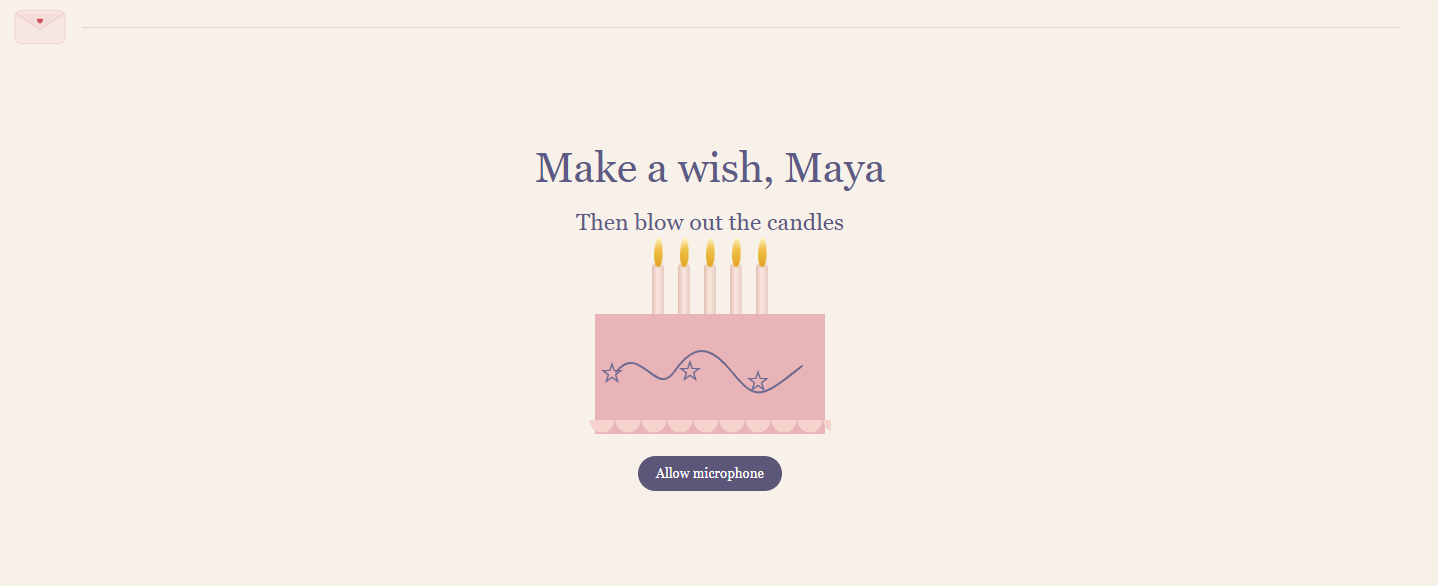
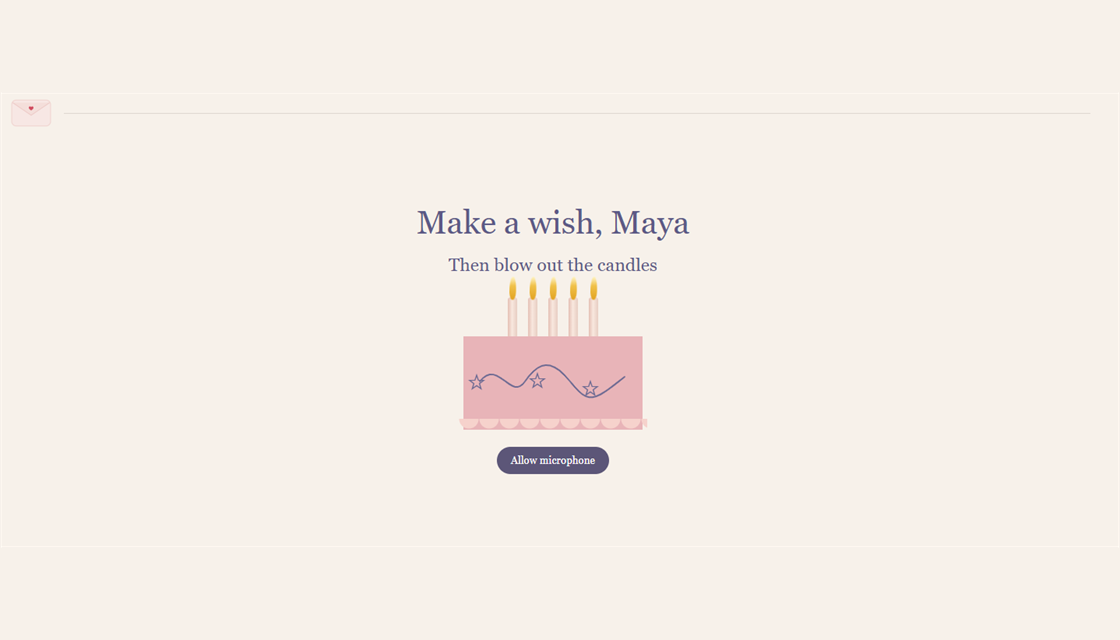
Give the README screenshots the same size

Changed region(s): [[0.4062, 0.5222, 0.5938, 0.8601], [0.375, 0.2457, 0.625, 0.4915]]

diff --git a/README.md b/README.md
@@ -6,7 +6,7 @@ This first version focuses on the receiver’s experience. The candles go out fi
 
 Live site: https://poetic-marigold-085535.netlify.app/
 
-<img src="imgcandles.png" alt="Make a wish, with the candles lit" width="280"> <img src="imgcandles2.png" alt="The candles after they go out" width="280"> <img src="imgcard.png" alt="The birthday card" width="280">
+<img src="imgcandles.png" alt="Make a wish, with the candles lit" width="280" height="160"> <img src="imgcandles2.png" alt="The candles after they go out" width="280" height="160"> <img src="imgcard.png" alt="The birthday card" width="280" height="160">
 
 ## Current status
 
